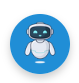
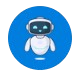
enhance chatbot-ui & add documentation in readme file

diff --git a/test-chatbot.html b/test-chatbot.html
@@ -141,7 +141,7 @@
     .demo-box {
       flex: 1;
       min-width: 300px;
-      height: 500px;
+      height: 445px;
       background: #f8f9fa;
       border-radius: 12px;
       border: 1px solid #e9ecef;
@@ -249,27 +249,44 @@
           <p>Try sending a message or wait for a broadcast notification to appear!</p>
         </div>
         <div class="demo-box">
-          <img src="./assets/QscChatbot.png" style="max-width:18vw;height:auto;" alt="QscChatbot" />
-          <img src="./assets/QscChatbot01.png" alt="QscChatbot01" style="border-radius:50%;"> 
+          <img src="./assets/QscChatbot.png" style="width: 78%;height:auto;" alt="QscChatbot" />
+          <img src="./assets/QscChatbot01.png" alt="QscChatbot01" style="border-radius:50%;width: 19%;"> 
 
           <qsc-chatbot
             ws-url="ws://localhost:8080/chat"
-            header-title="QSC Assistant"
+            header-title="QSC Chatbot"
             assistant-name="QSC Assistant"
             logo-path="./assets/bot.png"
           ></qsc-chatbot>
+        </div>
+        <div class="demo-box">
+          <img src="./assets/QscChatbot02.png" alt="QscChatbot02" style="border-radius:5%;width: 20%;"> 
+          <img src="./assets/QscChatbot03.png" alt="QscChatbot03" style="border-radius:5%;width: 37%;"> 
+          <img src="./assets/QscChatbot04.png" alt="QscChatbot03" style="border-radius:5%;width: 37%;"> 
         </div>
       </div>
     </div>
     
     <div class="code-header">
-      <h3>Implementation Code</h3>
+      <h3>Implementation Code Websocket</h3>
     </div>
     <div class="code-container">
       <pre><code>&lt;qsc-chatbot
   ws-url="wss://your-websocket-server"
-  header-title="Chat Assistant"
-  assistant-name="AI Assistant"
+  header-title="QSC Chatbot"
+  assistant-name="Qsc Assistant"
+  logo-path="./path/to/logo.png"&gt;
+&lt;/qsc-chatbot&gt;</code></pre>
+    </div> 
+    <div class="code-header">
+      <h3>Implementation Code REST Api</h3>
+    </div>
+    <div class="code-container">
+      <pre><code>&lt;qsc-chatbot
+  rest-url="https://your-rest-api-endpoint"', 
+  enable-rest-fallback="true",       
+  header-title="QSC Chatbot"
+  assistant-name="QSC Assistant"
   logo-path="./path/to/logo.png"&gt;
 &lt;/qsc-chatbot&gt;</code></pre>
     </div>

diff --git a/qsc-chatbot.js b/qsc-chatbot.js
@@ -272,7 +272,7 @@ class QscChatbot extends HTMLElement {
       
       .toggle-btn img.jumpLoop {
         width: 50px;
-        height: 45px;
+        height: 50px;
         border-radius: 50%;
         object-fit: cover;
         animation: smoothJump 1s ease-in-out infinite;

diff --git a/README.md b/README.md
@@ -62,9 +62,58 @@ If the `logoPath` is invalid or the image cannot be loaded, the plugin will auto
 
 ---
 
+## Message Types
+
+The chatbot UI supports the following message types in server responses:
+
+- **Bot/Assistant Message**:  
+  Sent by the assistant, appears on the left.
+  ```json
+  {
+    "type": "message" | "response",
+    "text": "Hi, how can I help you?",
+    "sender": "bot",
+    "timestamp": 1680000000001
+  }
+  ```
+
+- **System/Broadcast Message**:  
+  Sent by the system or as a broadcast, appears on the left with a "System" label.
+  ```json
+  {
+    "type": "broadcast",
+    "text": "System maintenance at 2am.",
+    "sender": "system",
+    "timestamp": 1680000000002
+  }
+  ```
+
+---
+
+## Broadcast Messages
+
+- **When the chat window is open:**  
+  Broadcast messages are shown as system messages in the chat window, with a "System" label and a 📢 icon.
+
+- **When the chat window is closed:**  
+  Broadcast messages trigger a popup notification and a red indicator dot on the toggle button.
+
+**Example broadcast message from server:**
+```json
+{
+  "type": "broadcast",
+  "text": "Hello, Qsc Team!",
+  "timestamp": 1680000000002
+}
+```
+
+---
+
 ## Screenshots
 ![QSC Chatbot UI](https://github.com/quasiris/qsc-chatbot-ui/blob/main/assets/QscChatbot.png)
 ![QSC Chatbot UI 01](https://github.com/quasiris/qsc-chatbot-ui/blob/main/assets/QscChatbot01.png)
+![QSC Chatbot UI 02](https://github.com/quasiris/qsc-chatbot-ui/blob/main/assets/QscChatbot02.png)
+![QSC Chatbot UI 03](https://github.com/quasiris/qsc-chatbot-ui/blob/main/assets/QscChatbot03.png)
 
 ---
 
